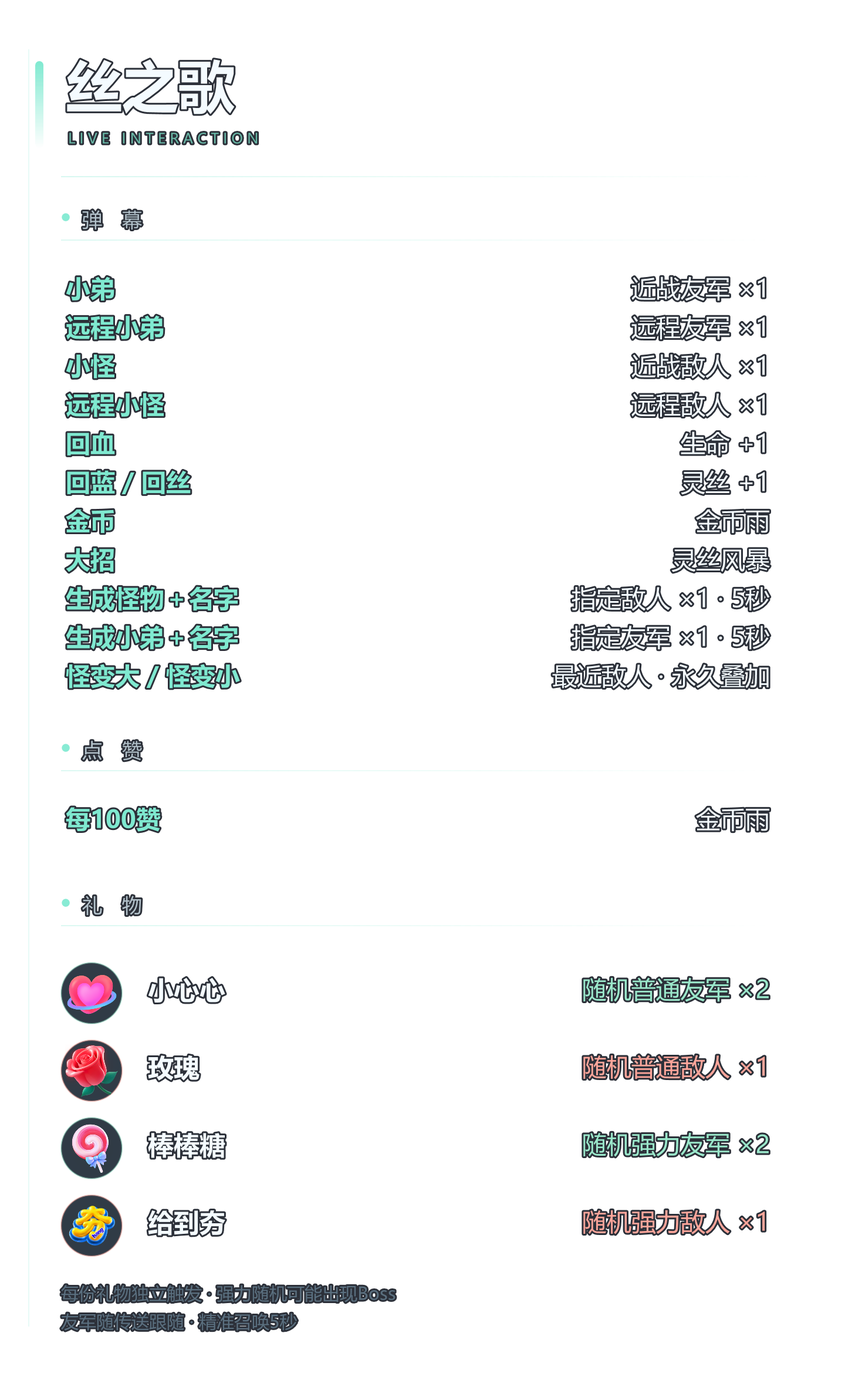
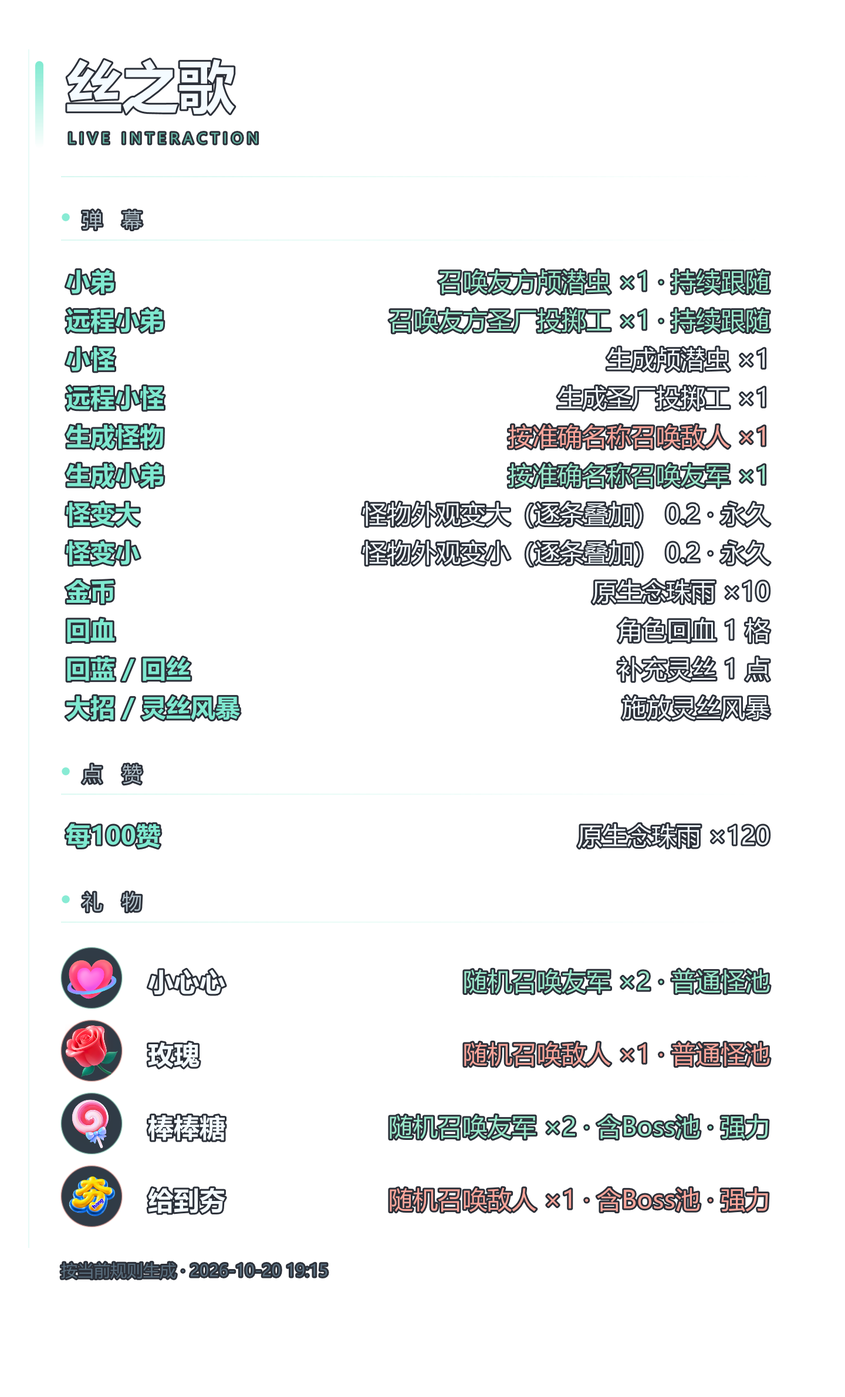
Add one-click poster generation from the live rule set (0.7.2)

diff --git a/src/LiveInteract.Desktop/MainWindow.xaml b/src/LiveInteract.Desktop/MainWindow.xaml
@@ -32,7 +32,7 @@
 <TextBlock x:Name="QueueOverviewText" Grid.Row="4" Text="输入与队列先保存到本机。筛选仅改变显示；待核对的结果不会盲目重放。" Style="{StaticResource MutedText}" Margin="0,12,0,0"/>
 </Grid></TabItem>
     <TabItem Header="Mod 与存档"><ScrollViewer><StackPanel Margin="28,24"><TextBlock Text="游戏环境" Style="{StaticResource SectionTitle}"/><Grid><Grid.ColumnDefinitions><ColumnDefinition Width="*"/><ColumnDefinition Width="Auto"/><ColumnDefinition Width="Auto"/></Grid.ColumnDefinitions><TextBox x:Name="GamePathBox"/><Button Grid.Column="1" Content="选择目录" Click="ChooseGameClick" Margin="10,0,0,0"/><Button Grid.Column="2" Content="重新检测" Click="DetectGameClick" Margin="10,0,0,0"/></Grid><TextBlock x:Name="GameDetailsText" Foreground="#B5C7D4" LineHeight="24" Margin="0,14,0,20"/><WrapPanel><Button Content="一键安装 / 修复" Style="{StaticResource PrimaryButton}" Click="PrepareGameClick" Margin="0,0,10,10"/><Button Content="启用 Mod" Click="EnableModClick" Margin="0,0,10,10"/><Button Content="停用 Mod" Click="DisableModClick" Margin="0,0,10,10"/><Button Content="卸载本工具 Mod" Style="{StaticResource DangerButton}" Click="UninstallModClick" Margin="0,0,10,10"/><Button Content="打开游戏目录" Click="OpenGameFolderClick" Margin="0,0,0,10"/></WrapPanel><Border BorderBrush="#2B3B4D" BorderThickness="0,1,0,0" Margin="0,20,0,0" Padding="0,23,0,0"><StackPanel><TextBlock Text="存档备份与恢复" Style="{StaticResource SectionTitle}"/><TextBlock Text="只在游戏关闭时备份。恢复前会保留当前存档，可再次撤销恢复；不会删除备份。" Style="{StaticResource MutedText}"/><ComboBox x:Name="BackupList" Margin="0,16,0,12"/><WrapPanel><Button Content="立即备份" Click="BackupClick" Margin="0,0,10,0"/><Button Content="恢复选中备份" Click="RestoreBackupClick" Margin="0,0,10,0"/><Button Content="打开备份目录" Click="OpenBackupFolderClick"/></WrapPanel><TextBlock x:Name="BackupStatusText" Foreground="#B9D8CF" Margin="0,14,0,0" LineHeight="23"/></StackPanel></Border><Border BorderBrush="#2B3B4D" BorderThickness="0,1,0,0" Margin="0,24,0,0" Padding="0,20,0,0"><StackPanel><TextBlock Text="兼容与维护" Style="{StaticResource SectionTitle}"/><TextBlock Text="仅管理本工具的文件。已存在的加载器和其他 Mod 会保留；游戏运行中可安排退出后自动维护，不会强制结束游戏。" Style="{StaticResource MutedText}"/><TextBlock x:Name="MaintenanceStatusText" Foreground="#E9BB88" Margin="0,12,0,0"/></StackPanel></Border></StackPanel></ScrollViewer></TabItem>
-    <TabItem Header="画面与设置"><ScrollViewer><StackPanel Margin="28,24" MaxWidth="850" HorizontalAlignment="Left"><TextBlock Text="可选直播提示" Style="{StaticResource SectionTitle}"/><CheckBox x:Name="GameOverlayCheck" Content="游戏内渐隐触发队列与怪物触发者名字"/><CheckBox x:Name="BrowserOverlayCheck" Content="启用 OBS 等软件使用的透明浏览器源"/><CheckBox x:Name="HideNamesCheck" Visibility="Collapsed" Content="在提示和记录中隐藏昵称"/><TextBlock Text="透明浏览器源地址" Style="{StaticResource MutedText}" Margin="0,16,0,6"/><DockPanel><Button Content="复制地址" DockPanel.Dock="Right" Click="CopyOverlayClick" Margin="8,0,0,0"/><TextBox x:Name="OverlayUrlBox" IsReadOnly="True" MinWidth="400"/></DockPanel><TextBlock Text="在 OBS 中添加“浏览器”源，设置画布宽高。它只用于展示，不能远程控制游戏。" Style="{StaticResource MutedText}" Margin="0,8,0,15"/><WrapPanel><Button Content="发送展示预览" Click="OverlayPreviewClick" Margin="0,0,10,0"/><Button Content="在浏览器查看" Click="OpenOverlayClick"/></WrapPanel><Grid Margin="0,20,0,20"><Grid.ColumnDefinitions><ColumnDefinition Width="170"/><ColumnDefinition Width="160"/><ColumnDefinition Width="170"/><ColumnDefinition Width="160"/></Grid.ColumnDefinitions><StackPanel><TextBlock Text="字号" Style="{StaticResource MutedText}"/><TextBox x:Name="OverlayFontBox" Text="22" Margin="0,7,20,0"/></StackPanel><StackPanel Grid.Column="1"><TextBlock Text="停靠位置" Style="{StaticResource MutedText}"/><ComboBox x:Name="CornerBox" Margin="0,7,20,0"/></StackPanel><StackPanel Grid.Column="2"><TextBlock Text="主色（#RRGGBB）" Style="{StaticResource MutedText}"/><TextBox x:Name="AccentBox" Text="#79E0C8" Margin="0,7,20,0"/></StackPanel><StackPanel Grid.Column="3"><TextBlock Text="本机展示端口" Style="{StaticResource MutedText}"/><TextBox x:Name="PortBox" Text="17573" Margin="0,7,0,0"/></StackPanel></Grid><TextBlock Text="透明源通知秒数" Style="{StaticResource MutedText}"/><TextBox x:Name="BrowserDurationBox" Text="6" Width="100" HorizontalAlignment="Left" Margin="0,7,0,10"/><WrapPanel><CheckBox x:Name="BrowserSourceCheck" Content="显示来源" Margin="0,0,18,0"/><CheckBox x:Name="BrowserResultCheck" Content="显示结果" Margin="0,0,18,0"/><CheckBox x:Name="BrowserEffectsCheck" Content="剩余效果" Margin="0,0,18,0"/><CheckBox x:Name="BrowserProgressCheck" Content="累计进度"/></WrapPanel><Expander Header="游戏内提示外观（可独立设置）" Foreground="#B8D2DE" Margin="0,22,0,24"><StackPanel Margin="0,12,0,0"><Grid><Grid.ColumnDefinitions><ColumnDefinition Width="165"/><ColumnDefinition Width="165"/><ColumnDefinition Width="165"/><ColumnDefinition Width="165"/></Grid.ColumnDefinitions><StackPanel><TextBlock Text="游戏内字号" Style="{StaticResource MutedText}"/><TextBox x:Name="GameFontBox" Text="18" Margin="0,7,16,0"/></StackPanel><StackPanel Grid.Column="1"><TextBlock Text="位置" Style="{StaticResource MutedText}"/><ComboBox x:Name="GameCornerBox" Margin="0,7,16,0"/></StackPanel><StackPanel Grid.Column="2"><TextBlock Text="文字主色" Style="{StaticResource MutedText}"/><TextBox x:Name="GameAccentBox" Text="#D9F9EF" Margin="0,7,16,0"/></StackPanel><StackPanel Grid.Column="3"><TextBlock Text="通知秒数" Style="{StaticResource MutedText}"/><TextBox x:Name="GameDurationBox" Text="5" Margin="0,7,0,0"/></StackPanel></Grid><WrapPanel Margin="0,15,0,0"><CheckBox x:Name="GameSourceCheck" Content="显示来源" Margin="0,0,18,0"/><CheckBox x:Name="GameResultCheck" Content="显示结果" Margin="0,0,18,0"/><CheckBox x:Name="GameEffectsCheck" Content="剩余效果" Margin="0,0,18,0"/><CheckBox x:Name="GameProgressCheck" Content="累计进度"/></WrapPanel></StackPanel></Expander><TextBlock Text="执行保护" Style="{StaticResource SectionTitle}"/><CheckBox x:Name="PersistentCheck" Content="本次会话允许永久资源、装备与能力修改" Checked="PersistentChanged" Unchecked="PersistentChanged"/><TextBlock Text="不会记住这项许可。导入配置不能替你开启；紧急停止也不能撤销已写入的永久修改。" Style="{StaticResource MutedText}"/><DockPanel Margin="0,18,0,18"><TextBlock Text="本工具生成敌人同时存在上限" VerticalAlignment="Center" Margin="0,0,20,0"/><TextBox x:Name="SpawnLimitBox" Text="40" Width="100" HorizontalAlignment="Left"/></DockPanel><TextBlock Text="快捷键" Style="{StaticResource SectionTitle}"/><DockPanel Margin="0,0,0,10"><Button DockPanel.Dock="Right" Content="修改" Tag="pause" Click="ChangeHotkeyClick"/><TextBlock x:Name="PauseHotkeyText" Text="Ctrl+Alt+F10 · 暂停 / 恢复新触发" VerticalAlignment="Center" Margin="0,0,20,0"/></DockPanel><DockPanel><Button DockPanel.Dock="Right" Content="修改" Tag="emergency" Click="ChangeHotkeyClick"/><TextBlock x:Name="EmergencyHotkeyText" Text="Ctrl+Alt+F12 · 紧急停止与恢复" VerticalAlignment="Center" Margin="0,0,20,0"/></DockPanel><TextBlock Text="注册冲突会显示在运行记录中，不会悄悄失效。" Style="{StaticResource MutedText}" Margin="0,8,0,20"/><Button Content="保存并应用设置" Style="{StaticResource PrimaryButton}" Click="SaveSettingsClick" HorizontalAlignment="Left"/><TextBlock x:Name="SettingsResultText" Foreground="#B3DCD0" Margin="0,14,0,0"/></StackPanel></ScrollViewer></TabItem>
+    <TabItem Header="画面与设置"><ScrollViewer><StackPanel Margin="28,24" MaxWidth="850" HorizontalAlignment="Left"><TextBlock Text="可选直播提示" Style="{StaticResource SectionTitle}"/><CheckBox x:Name="GameOverlayCheck" Content="游戏内渐隐触发队列与怪物触发者名字"/><CheckBox x:Name="BrowserOverlayCheck" Content="启用 OBS 等软件使用的透明浏览器源"/><CheckBox x:Name="HideNamesCheck" Visibility="Collapsed" Content="在提示和记录中隐藏昵称"/><TextBlock Text="透明浏览器源地址" Style="{StaticResource MutedText}" Margin="0,16,0,6"/><DockPanel><Button Content="复制地址" DockPanel.Dock="Right" Click="CopyOverlayClick" Margin="8,0,0,0"/><TextBox x:Name="OverlayUrlBox" IsReadOnly="True" MinWidth="400"/></DockPanel><TextBlock Text="在 OBS 中添加“浏览器”源，设置画布宽高。它只用于展示，不能远程控制游戏。" Style="{StaticResource MutedText}" Margin="0,8,0,15"/><WrapPanel><Button Content="发送展示预览" Click="OverlayPreviewClick" Margin="0,0,10,0"/><Button Content="在浏览器查看" Click="OpenOverlayClick" Margin="0,0,10,0"/><Button Content="生成当前直播图" Click="GeneratePosterClick" ToolTip="按当前启用的规则生成透明 PNG 直播图，礼物图标随包内置"/></WrapPanel><TextBlock Text="直播图按当前规则实时生成：触发词与效果都来自你正在用的配置，改完规则再点一次即可。" Style="{StaticResource MutedText}" Margin="0,8,0,0"/><Grid Margin="0,20,0,20"><Grid.ColumnDefinitions><ColumnDefinition Width="170"/><ColumnDefinition Width="160"/><ColumnDefinition Width="170"/><ColumnDefinition Width="160"/></Grid.ColumnDefinitions><StackPanel><TextBlock Text="字号" Style="{StaticResource MutedText}"/><TextBox x:Name="OverlayFontBox" Text="22" Margin="0,7,20,0"/></StackPanel><StackPanel Grid.Column="1"><TextBlock Text="停靠位置" Style="{StaticResource MutedText}"/><ComboBox x:Name="CornerBox" Margin="0,7,20,0"/></StackPanel><StackPanel Grid.Column="2"><TextBlock Text="主色（#RRGGBB）" Style="{StaticResource MutedText}"/><TextBox x:Name="AccentBox" Text="#79E0C8" Margin="0,7,20,0"/></StackPanel><StackPanel Grid.Column="3"><TextBlock Text="本机展示端口" Style="{StaticResource MutedText}"/><TextBox x:Name="PortBox" Text="17573" Margin="0,7,0,0"/></StackPanel></Grid><TextBlock Text="透明源通知秒数" Style="{StaticResource MutedText}"/><TextBox x:Name="BrowserDurationBox" Text="6" Width="100" HorizontalAlignment="Left" Margin="0,7,0,10"/><WrapPanel><CheckBox x:Name="BrowserSourceCheck" Content="显示来源" Margin="0,0,18,0"/><CheckBox x:Name="BrowserResultCheck" Content="显示结果" Margin="0,0,18,0"/><CheckBox x:Name="BrowserEffectsCheck" Content="剩余效果" Margin="0,0,18,0"/><CheckBox x:Name="BrowserProgressCheck" Content="累计进度"/></WrapPanel><Expander Header="游戏内提示外观（可独立设置）" Foreground="#B8D2DE" Margin="0,22,0,24"><StackPanel Margin="0,12,0,0"><Grid><Grid.ColumnDefinitions><ColumnDefinition Width="165"/><ColumnDefinition Width="165"/><ColumnDefinition Width="165"/><ColumnDefinition Width="165"/></Grid.ColumnDefinitions><StackPanel><TextBlock Text="游戏内字号" Style="{StaticResource MutedText}"/><TextBox x:Name="GameFontBox" Text="18" Margin="0,7,16,0"/></StackPanel><StackPanel Grid.Column="1"><TextBlock Text="位置" Style="{StaticResource MutedText}"/><ComboBox x:Name="GameCornerBox" Margin="0,7,16,0"/></StackPanel><StackPanel Grid.Column="2"><TextBlock Text="文字主色" Style="{StaticResource MutedText}"/><TextBox x:Name="GameAccentBox" Text="#D9F9EF" Margin="0,7,16,0"/></StackPanel><StackPanel Grid.Column="3"><TextBlock Text="通知秒数" Style="{StaticResource MutedText}"/><TextBox x:Name="GameDurationBox" Text="5" Margin="0,7,0,0"/></StackPanel></Grid><WrapPanel Margin="0,15,0,0"><CheckBox x:Name="GameSourceCheck" Content="显示来源" Margin="0,0,18,0"/><CheckBox x:Name="GameResultCheck" Content="显示结果" Margin="0,0,18,0"/><CheckBox x:Name="GameEffectsCheck" Content="剩余效果" Margin="0,0,18,0"/><CheckBox x:Name="GameProgressCheck" Content="累计进度"/></WrapPanel></StackPanel></Expander><TextBlock Text="执行保护" Style="{StaticResource SectionTitle}"/><CheckBox x:Name="PersistentCheck" Content="本次会话允许永久资源、装备与能力修改" Checked="PersistentChanged" Unchecked="PersistentChanged"/><TextBlock Text="不会记住这项许可。导入配置不能替你开启；紧急停止也不能撤销已写入的永久修改。" Style="{StaticResource MutedText}"/><DockPanel Margin="0,18,0,18"><TextBlock Text="本工具生成敌人同时存在上限" VerticalAlignment="Center" Margin="0,0,20,0"/><TextBox x:Name="SpawnLimitBox" Text="40" Width="100" HorizontalAlignment="Left"/></DockPanel><TextBlock Text="快捷键" Style="{StaticResource SectionTitle}"/><DockPanel Margin="0,0,0,10"><Button DockPanel.Dock="Right" Content="修改" Tag="pause" Click="ChangeHotkeyClick"/><TextBlock x:Name="PauseHotkeyText" Text="Ctrl+Alt+F10 · 暂停 / 恢复新触发" VerticalAlignment="Center" Margin="0,0,20,0"/></DockPanel><DockPanel><Button DockPanel.Dock="Right" Content="修改" Tag="emergency" Click="ChangeHotkeyClick"/><TextBlock x:Name="EmergencyHotkeyText" Text="Ctrl+Alt+F12 · 紧急停止与恢复" VerticalAlignment="Center" Margin="0,0,20,0"/></DockPanel><TextBlock Text="注册冲突会显示在运行记录中，不会悄悄失效。" Style="{StaticResource MutedText}" Margin="0,8,0,20"/><Button Content="保存并应用设置" Style="{StaticResource PrimaryButton}" Click="SaveSettingsClick" HorizontalAlignment="Left"/><TextBlock x:Name="SettingsResultText" Foreground="#B3DCD0" Margin="0,14,0,0"/></StackPanel></ScrollViewer></TabItem>
    </TabControl>
    <Border Grid.Row="2" Background="#111B25" BorderBrush="#263748" BorderThickness="0,1,0,0" Padding="28,0"><DockPanel><TextBlock x:Name="FooterQueue" DockPanel.Dock="Right" Text="队列 0" FontSize="12" Foreground="#91A9BA" VerticalAlignment="Center"/><TextBlock x:Name="FooterStatus" Text="正在启动本地服务…" FontSize="12" Foreground="#A2B9C8" VerticalAlignment="Center"/></DockPanel></Border>
   </Grid>

diff --git a/src/LiveInteract.Desktop/PosterRenderer.cs b/src/LiveInteract.Desktop/PosterRenderer.cs
@@ -1,0 +1,221 @@
+using System;
+using System.Collections.Generic;
+using System.Globalization;
+using System.IO;
+using System.Linq;
+using System.Reflection;
+using System.Windows;
+using System.Windows.Media;
+using System.Windows.Media.Imaging;
+using LiveInteract.Contracts;
+using LiveInteract.Core;
+
+namespace LiveInteract.Desktop;
+
+/// <summary>按当前规则生成透明直播说明图：只依赖规则本身与随包内置的官方礼物图标。</summary>
+internal static class PosterRenderer
+{
+    private const double PageWidth = 720, PageHeight = 1190, Left = 52, Right = 656, TriggerX = 56, EffectStart = 300, EffectLimit = 656, RowStep = 33;
+    private const double TriggerWidth = EffectStart - TriggerX - 16;
+    private static readonly CultureInfo Zh = CultureInfo.GetCultureInfo("zh-CN");
+    private static readonly Typeface Font = new("Microsoft YaHei UI");
+    private static readonly Brush Ink = ColorBrush("#F4FBFF"), Accent = ColorBrush("#7FE9D0"), Ally = ColorBrush("#9BE8CB"), Enemy = ColorBrush("#FFA69B"), Muted = ColorBrush("#93A8B6"), Faint = ColorBrush("#5B7080");
+    /// <summary>礼物名到随包图标的对应关系；没有图标的礼物只显示文字。</summary>
+    private static readonly Dictionary<string, string> GiftIcons = new(StringComparer.OrdinalIgnoreCase)
+    {
+        ["小心心"] = "heart.png", ["玫瑰"] = "rose.png", ["棒棒糖"] = "lollipop.png", ["给到夯"] = "han.png"
+    };
+
+    private sealed record Row(string Trigger, string Effect, Brush EffectBrush, string? Icon);
+    private sealed class Section
+    {
+        public string Title = ""; public List<Row> Rows = new();
+    }
+
+    /// <summary>生成 PNG 文件；调用方负责选择路径与提示结果。</summary>
+    /// <param name="profile">当前规则配置。</param>
+    /// <param name="outputPath">目标 PNG 路径。</param>
+    /// <returns>实际写入的文件路径。</returns>
+    public static string Render(RuleProfile profile, string outputPath)
+    {
+        var sections = Build(profile);
+        var height = Layout(sections);
+        var visual = new DrawingVisual();
+        using (var dc = visual.RenderOpen()) { Paint(dc, sections); }
+        var bitmap = new RenderTargetBitmap((int)(PageWidth * 2), (int)(Math.Ceiling(height) * 2), 192, 192, PixelFormats.Pbgra32);
+        bitmap.Render(visual);
+        var encoder = new PngBitmapEncoder(); encoder.Frames.Add(BitmapFrame.Create(bitmap));
+        var full = Path.GetFullPath(outputPath); Directory.CreateDirectory(Path.GetDirectoryName(full)!);
+        using var file = File.Create(full); encoder.Save(file);
+        return full;
+    }
+
+    /// <summary>把启用中的规则按事件类型分组，触发词与效果都取自现有规则显示逻辑。</summary>
+    private static List<Section> Build(RuleProfile profile)
+    {
+        var enabled = profile.Rules.Where(rule => rule.Enabled).ToArray();
+        var sections = new List<Section>();
+        void Add(string title, IEnumerable<RuleDefinition> rules)
+        {
+            var rows = rules.Select(rule =>
+            {
+                var effect = RuleDisplay.Effect(rule.Root);
+                var icon = rule.Trigger.Type == LiveEventType.Gift && GiftIcons.TryGetValue(rule.Trigger.GiftName, out var file) ? file : null;
+                return new Row(TriggerLabel(rule.Trigger), effect, EffectBrush(effect), icon);
+            }).ToList();
+            if (rows.Count > 0) { sections.Add(new Section { Title = title, Rows = rows }); }
+        }
+        Add("弹　幕", enabled.Where(rule => rule.Trigger.Type == LiveEventType.Chat));
+        Add("点　赞", enabled.Where(rule => rule.Trigger.Type == LiveEventType.Like));
+        Add("礼　物", enabled.Where(rule => rule.Trigger.Type == LiveEventType.Gift));
+        Add("其　他", enabled.Where(rule => rule.Trigger.Type is not (LiveEventType.Chat or LiveEventType.Like or LiveEventType.Gift)));
+        return sections;
+    }
+
+    /// <summary>触发列只保留主播和观众一眼能对上的短标签。</summary>
+    private static string TriggerLabel(TriggerDefinition trigger) => trigger.Type switch
+    {
+        LiveEventType.Chat => trigger.Keywords.Count > 0 ? string.Join(" / ", trigger.Keywords) : "任意弹幕",
+        LiveEventType.Like => trigger.Threshold > 1 ? "每" + trigger.Threshold + "赞" : "每次点赞",
+        LiveEventType.Gift => trigger.GiftName.Length > 0 ? trigger.GiftName : trigger.GiftId.Length > 0 ? "指定礼物" : "任意礼物",
+        LiveEventType.Follow => trigger.Threshold > 1 ? "关注 ×" + trigger.Threshold : "关注",
+        LiveEventType.Enter => trigger.Threshold > 1 ? "进场 ×" + trigger.Threshold : "进场",
+        LiveEventType.Share => trigger.Threshold > 1 ? "分享 ×" + trigger.Threshold : "分享",
+        _ => "粉丝团"
+    };
+
+    /// <summary>友军与敌军用固定两色，其余用正文色。</summary>
+    private static Brush EffectBrush(string effect) => effect.Contains("友军", StringComparison.Ordinal) || effect.Contains("友方", StringComparison.Ordinal) ? Ally : effect.Contains("敌人", StringComparison.Ordinal) || effect.Contains("敌方", StringComparison.Ordinal) ? Enemy : Ink;
+
+    /// <summary>先算高度再画；不足一屏时按固定画布补齐，OBS 里已摆好的位置不会因为规则变少而跳动。</summary>
+    private static double Layout(List<Section> sections) => Math.Max(ContentBottom(sections) + 26, PageHeight);
+
+    /// <summary>实际内容底部，页脚与左侧竖线都跟着它走。</summary>
+    private static double ContentBottom(List<Section> sections)
+    {
+        var y = 176.0;
+        foreach (var section in sections) { y += 50 + section.Rows.Count * Step(section) + 26; }
+        return y;
+    }
+
+    /// <summary>带图标的礼物行要留出图标高度，否则相邻图标会叠在一起。</summary>
+    private static double Step(Section section) => section.Rows.Any(row => row.Icon != null) ? 62 : RowStep;
+
+    private static void Paint(DrawingContext dc, List<Section> sections)
+    {
+        var rail = new LinearGradientBrush(Color.FromArgb(255, 127, 233, 208), Color.FromArgb(0, 127, 233, 208), 90);
+        dc.DrawRoundedRectangle(rail, null, new Rect(30, 52, 7, 74), 3.5, 3.5);
+        Text(dc, "丝之歌", Left + 4, 42, 48, Ink, true);
+        Text(dc, "L I V E   I N T E R A C T I O N", Left + 6, 110, 12, Alpha("#7FE9D0", 190));
+        dc.DrawRectangle(new LinearGradientBrush(Color.FromArgb(80, 127, 233, 208), Color.FromArgb(0, 127, 233, 208), 0), null, new Rect(Left, 150, Right - Left, 1));
+        dc.DrawRectangle(Alpha("#7FE9D0", 45), null, new Rect(24, 42, 1, ContentBottom(sections) - 60));
+
+        var y = 176.0;
+        foreach (var section in sections)
+        {
+            dc.DrawEllipse(Alpha("#7FE9D0", 235), null, new Point(Left + 4, y + 9), 3.4, 3.4);
+            Text(dc, section.Title, Left + 18, y, 17, Alpha("#C6D6DF", 225));
+            dc.DrawRectangle(new LinearGradientBrush(Color.FromArgb(70, 127, 233, 208), Color.FromArgb(0, 127, 233, 208), 0), null, new Rect(Left, y + 28, Right - Left, 1));
+            var rowY = y + 50;
+            var step = Step(section);
+            foreach (var row in section.Rows)
+            {
+                if (row.Icon != null)
+                {
+                    Icon(dc, row.Icon, Left, rowY, row.EffectBrush);
+                    Text(dc, Fit(row.Trigger, EffectStart - (Left + 74) - 16, 22, 16, true), Left + 74, rowY + 15, 22, Ink, true);
+                    var (iconSize, iconText) = FitPair(row.Effect, EffectStart, EffectLimit, 21, 16);
+                    TextRight(dc, iconText, EffectLimit, rowY + 15, iconSize, row.EffectBrush);
+                }
+                else
+                {
+                    Text(dc, Fit(row.Trigger, TriggerWidth, 21, 16, true), TriggerX, rowY, 21, Accent, true);
+                    var (size, text) = FitPair(row.Effect, EffectStart, EffectLimit, 21, 16);
+                    TextRight(dc, text, EffectLimit, rowY, size, row.EffectBrush);
+                }
+                rowY += step;
+            }
+            y += 50 + section.Rows.Count * step + 26;
+        }
+        var footer = "按当前规则生成 · " + DateTime.Now.ToString("yyyy-MM-dd HH:mm", CultureInfo.InvariantCulture);
+        Text(dc, footer, Left, y - 8, 14, Faint);
+    }
+
+    /// <summary>礼物图标放进圆底，外圈跟着效果颜色。</summary>
+    private static void Icon(DrawingContext dc, string file, double x, double y, Brush tint)
+    {
+        const double size = 52;
+        var center = new Point(x + size / 2, y + size / 2);
+        dc.DrawEllipse(new RadialGradientBrush(Color.FromArgb(46, 255, 255, 255), Color.FromArgb(0, 255, 255, 255)), null, center, size / 2 + 6, size / 2 + 6);
+        var colour = ((SolidColorBrush)tint).Color;
+        dc.DrawEllipse(Alpha("#1E2A36", 235), new Pen(new SolidColorBrush(Color.FromArgb(110, colour.R, colour.G, colour.B)), 1.2), center, size / 2, size / 2);
+        var bitmap = Embedded(file); if (bitmap == null) { return; }
+        var scale = Math.Min((size - 6) / bitmap.PixelWidth, (size - 6) / bitmap.PixelHeight);
+        var width = bitmap.PixelWidth * scale; var height = bitmap.PixelHeight * scale;
+        dc.DrawImage(bitmap, new Rect(center.X - width / 2, center.Y - height / 2, width, height));
+    }
+
+    /// <summary>读取随程序集打包的官方礼物图标；缺失时只画底色，不伪造图标。</summary>
+    private static BitmapImage? Embedded(string file)
+    {
+        var assembly = typeof(PosterRenderer).Assembly;
+        using var stream = assembly.GetManifestResourceStream("LiveInteract.Desktop.gift." + file);
+        if (stream == null) { return null; }
+        var image = new BitmapImage();
+        image.BeginInit(); image.StreamSource = stream; image.CacheOption = BitmapCacheOption.OnLoad; image.EndInit(); image.Freeze();
+        return image;
+    }
+
+    /// <summary>按实际排版宽度收缩字号，仍放不下就截断加省略号。</summary>
+    private static string Fit(string text, double maxWidth, double size, double minSize, bool bold)
+    {
+        var (_, result) = FitPair(text, 0, maxWidth, size, minSize, bold);
+        return result;
+    }
+
+    private static (double Size, string Text) FitPair(string text, double start, double limit, double size, double minSize, bool bold = false)
+    {
+        var width = limit - start;
+        var current = size;
+        while (current > minSize && Measure(text, current, bold) > width) { current -= 1; }
+        if (Measure(text, current, bold) <= width) { return (current, text); }
+        var trimmed = text;
+        while (trimmed.Length > 1 && Measure(trimmed + "…", current, bold) > width) { trimmed = trimmed[..^1]; }
+        return (current, trimmed + "…");
+    }
+
+    private static double Measure(string text, double size, bool bold)
+    {
+        var type = bold ? new Typeface(Font.FontFamily, FontStyles.Normal, FontWeights.Bold, FontStretches.Normal) : Font;
+        return new FormattedText(text, Zh, FlowDirection.LeftToRight, type, size, Brushes.White, 1).WidthIncludingTrailingWhitespace;
+    }
+
+    private static void TextRight(DrawingContext dc, string text, double right, double y, double size, Brush fill)
+    {
+        var type = Font;
+        var formatted = new FormattedText(text, Zh, FlowDirection.LeftToRight, type, size, fill, 1);
+        Draw(dc, formatted, new Point(right - formatted.WidthIncludingTrailingWhitespace, y), fill);
+    }
+
+    private static void Text(DrawingContext dc, string text, double x, double y, double size, Brush fill, bool bold = false)
+    {
+        var type = bold ? new Typeface(Font.FontFamily, FontStyles.Normal, FontWeights.Bold, FontStretches.Normal) : Font;
+        var formatted = new FormattedText(text, Zh, FlowDirection.LeftToRight, type, size, fill, 1);
+        Draw(dc, formatted, new Point(x, y), fill);
+    }
+
+    /// <summary>深色描边保证压在游戏画面上也能读清。</summary>
+    private static void Draw(DrawingContext dc, FormattedText formatted, Point origin, Brush fill)
+    {
+        var shape = formatted.BuildGeometry(origin);
+        dc.DrawGeometry(null, new Pen(ColorBrush("#E5141A22"), 3) { LineJoin = PenLineJoin.Round }, shape);
+        dc.DrawGeometry(fill, null, shape);
+    }
+
+    private static Brush ColorBrush(string value) => new SolidColorBrush((Color)ColorConverter.ConvertFromString(value));
+    private static SolidColorBrush Alpha(string hex, byte alpha)
+    {
+        var colour = (Color)ColorConverter.ConvertFromString(hex);
+        return new SolidColorBrush(System.Windows.Media.Color.FromArgb(alpha, colour.R, colour.G, colour.B));
+    }
+}

diff --git a/src/LiveInteract.Desktop/MainWindow.xaml.cs b/src/LiveInteract.Desktop/MainWindow.xaml.cs
@@ -466,6 +466,19 @@ public partial class MainWindow : Window
     /// <param name="e">事件。</param>
     private void OpenOverlayClick(object? sender, RoutedEventArgs e) { if (overlay.Url.Length > 0) { OpenPath(overlay.Url); } }
 
+    /// <summary>按当前规则生成透明直播图；路径由主播选择，文件只写本地。</summary>
+    /// <param name="sender">按钮。</param>
+    /// <param name="e">事件。</param>
+    private async void GeneratePosterClick(object? sender, RoutedEventArgs e) => await GuardAsync(() =>
+    {
+        var dialog = new SaveFileDialog { Filter = "PNG 图片 (*.png)|*.png", FileName = "直播互动说明-" + DateTime.Now.ToString("yyyyMMdd-HHmm") + ".png" };
+        if (dialog.ShowDialog(this) != true) { return Task.CompletedTask; }
+        var file = PosterRenderer.Render(profile, dialog.FileName);
+        SettingsResultText.Text = "已按当前规则生成直播图：" + file;
+        runtime.Log("直播图", "已生成 " + file);
+        return Task.CompletedTask;
+    });
+
     /// <summary>导出技术状态，不附带账号、观众消息或原始协议包。</summary>
     /// <param name="sender">按钮。</param>
     /// <param name="e">事件。</param>
@@ -476,7 +489,7 @@ public partial class MainWindow : Window
         {
             File.WriteAllText(dialog.FileName, JsonConvert.SerializeObject(new
             {
-                Version = "0.7.1", At = DateTimeOffset.Now, Game = new { environment.GameFound, environment.LoaderFound, environment.ModEnabled, environment.ModDisabled, environment.Running, environment.BuildId },
+                Version = "0.7.2", At = DateTimeOffset.Now, Game = new { environment.GameFound, environment.LoaderFound, environment.ModEnabled, environment.ModDisabled, environment.Running, environment.BuildId },
                 Bridge = new { runtime.Game.IsConnected, runtime.Game.Status?.GameVersion, runtime.Game.Status?.Scene, runtime.Game.Status?.CanAct, runtime.Game.Status?.Diagnostics },
                 Counts = new { runtime.Received, runtime.Simulated, runtime.Completed, runtime.Failed },
                 RuleCount = profile.Rules.Count, EnabledRules = profile.Rules.Count(item => item.Enabled),

diff --git a/src/LiveInteract.Desktop/App.xaml.cs b/src/LiveInteract.Desktop/App.xaml.cs
@@ -50,6 +50,14 @@ public partial class App : Application
                 var builtin=Path.Combine(AppContext.BaseDirectory,"profiles","丝之歌-弹幕助力.json"); var builtinRules=0; string? builtinError=null; try { builtinRules=ProfileStore.Read(File.ReadAllText(builtin),false).Rules.Count; } catch(Exception error) { builtinError=error.Message; }
                 File.WriteAllText(e.Args[1], JsonConvert.SerializeObject(new { environment, BuiltinRules=builtinRules, BuiltinProfileError=builtinError, Runtime = System.Runtime.InteropServices.RuntimeInformation.FrameworkDescription, BrowserRuntime = browser, ActionDefinitions = ActionCatalog.All.Count, PayloadFound = Directory.Exists(PayloadDirectory) }, Formatting.Indented)); Shutdown(); return;
             }
+            if (e.Args.Length >= 2 && e.Args[0] == "--poster")
+            {
+                // 按当前规则直接生成透明直播图，便于脚本或外部工具复用同一套排版。
+                var profileFile = e.Args.Length >= 3 ? Path.GetFullPath(e.Args[2]) : Path.Combine(AppContext.BaseDirectory, "profiles", "丝之歌-弹幕助力.json");
+                var model = ProfileStore.Read(File.ReadAllText(profileFile), false);
+                PosterRenderer.Render(model, e.Args[1]);
+                Shutdown(); return;
+            }
             if (e.Args.Length >= 2 && e.Args[0] == "--game-probe")
             {
                 await using var bridge = new GamePipeServer(); bridge.Start();

diff --git a/src/LiveInteract.Silksong/Plugin.cs b/src/LiveInteract.Silksong/Plugin.cs
@@ -15,7 +15,7 @@ using LiveInteract.Contracts;
 namespace LiveInteract.Silksong;
 
 /// <summary>主线程执行、可核对回执和简洁的渐隐触发提示。</summary>
-[BepInPlugin("cn.liveinteract.silksong", "直播互动工具箱", "0.7.1")]
+[BepInPlugin("cn.liveinteract.silksong", "直播互动工具箱", "0.7.2")]
 [BepInProcess("Hollow Knight Silksong.exe")]
 public sealed class Plugin : BaseUnityPlugin
 {
@@ -62,7 +62,7 @@ public sealed class Plugin : BaseUnityPlugin
         harmony = new Harmony("cn.liveinteract.silksong"); harmony.PatchAll(typeof(Plugin).Assembly);
         Application.logMessageReceived += OnUnityMessage;
         menuInfoUntil = Time.realtimeSinceStartup + 6;
-        Logger.LogInfo("直播互动 Mod 0.7.1 已加载；待游戏与直播实际验证。");
+        Logger.LogInfo("直播互动 Mod 0.7.2 已加载；待游戏与直播实际验证。");
     }
 
     private void Update()

diff --git a/src/LiveInteract.Silksong/GameActions.cs b/src/LiveInteract.Silksong/GameActions.cs
@@ -634,7 +634,7 @@ internal sealed class GameActions
         var data = ExistingPlayerData(); // 只读已有数据，禁止为心跳创建单例。
         var status = new GameStatus
         {
-            Scene = SceneManager.GetActiveScene().name, GameVersion = Application.version, ModVersion = "0.7.1", CanAct = CanAct,
+            Scene = SceneManager.GetActiveScene().name, GameVersion = Application.version, ModVersion = "0.7.2", CanAct = CanAct,
             Health = data?.health ?? 0, BlueHealth = data?.healthBlue ?? 0, ShieldPoints = shieldPoints, CompanionCount = CompanionCount, PickupCount = pickups.Count, SizeLayerCount = appearanceStacks.Where(a => a != null).Sum(a => a.Count), Silk = data?.silk ?? 0,
             ActiveEffects = effects.Describe(Time.realtimeSinceStartup).ToList(),
             SpawnableMonsterIds = monsterAssets.AvailableIds,

diff --git a/docs/0.7使用说明.md b/docs/0.7使用说明.md
@@ -43,6 +43,12 @@
 
 排队期间游戏内左下角会一直显示“谁 · 效果 · 待生成”，补生成成功时再显示一行提示；紧急停止会清空队列。上限只统计本工具生成的敌对单位，常驻友军不计入，0 表示不设上限。
 
+## 一键生成直播图
+
+“画面与设置”里的“生成当前直播图”按你当前启用的规则直接出一张透明 PNG：弹幕/点赞/礼物自动分组，触发词与效果都来自正在用的配置，礼物图标是随包内置的抖音官方原图，没有对应图标的礼物只显示文字。改完规则再点一次即可。
+
+输出默认 1440×2380，规则多时按内容加高；图上是生成时间，方便确认版本。命令行也能用：`直播互动工具箱.exe --poster 输出.png [规则JSON]`。
+
 ## 为什么这个包小
 
 精简包复用系统 .NET 10 Windows Desktop Runtime 和 Microsoft Edge WebView2 Runtime，不再重复携带大体积固定浏览器与.NET环境。本机已确认有.NET桌面10.0.12及WebView2 155.0.4283.62。换电脑如果缺组件，按启动提示安装 .NET 10 Desktop Runtime；直播间窗口会给出安装微软WebView2的按钮。内置浏览器版则自带固定 WebView2（WebView2Runtime 目录）。

diff --git a/CHANGELOG.md b/CHANGELOG.md
@@ -1,5 +1,11 @@
 # 版本记录
 
+## 0.7.2 — 2026-10-20（本地预发布，未远程发布）
+
+新增一键生成直播图：“画面与设置”里点“生成当前直播图”，按当前启用的规则即时出图——弹幕/点赞/礼物自动分组，触发词与效果取自正在用的配置，礼物图标用随包内置的抖音官方原图，无图标的礼物只显示文字。画布默认 1440×2380，规则多时自动加高，图上带生成时间。命令行同样可用：`直播互动工具箱.exe --poster 输出.png [规则JSON]`。
+
+原独立的 PosterRender 工具已并入主程序，仓库里只剩这一套排版代码，随包图也改由主程序生成。
+
 ## 0.7.1 — 2026-10-20（本地预发布，未远程发布）
 
 弹幕回血不再满血浪费：溢出的部分转成临时额外血量上限，血条会真的多出格子。每次触发刷新30秒，最多叠到＋5，切场景、死亡、紧急停止和改血量上限都会先收回；控制台“剩余效果”显示当前加成与剩余秒数。
